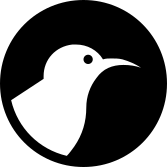
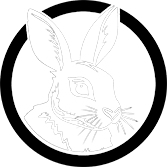
123

diff --git a/index.html b/index.html
@@ -17,11 +17,11 @@
     />
 
     <meta property="og:title" content="Тихий Дом" />
-    <meta property="og:url" content="https://cinny.in" />
-    <meta property="og:image" content="https://cinny.in/assets/favicon-48x48.png" />
+    <meta property="og:url" content="https://tihiydom.netlify.app" />
+    <meta property="og:image" content="https://raw.githubusercontent.com/moshiax/tihiyd0m/main/logo.png" />
     <meta
       property="og:description"
-      content="Тихий дом."
+      content="Мёртвая зона"
     />
     <meta name="theme-color" content="#000000" />
 
@@ -29,7 +29,7 @@
 
     <link rel="manifest" href="/manifest.json" />
     <meta name="mobile-web-app-capable" content="yes" />
-    <meta name="application-name" content="Cinny" />
+    <meta name="application-name" content="Тихий Дом" />
     <meta name="apple-mobile-web-app-title" content="Тихий дом" />
     <meta name="apple-mobile-web-app-capable" content="yes" />
     <meta name="apple-mobile-web-app-status-bar-style" content="black-translucent" />
